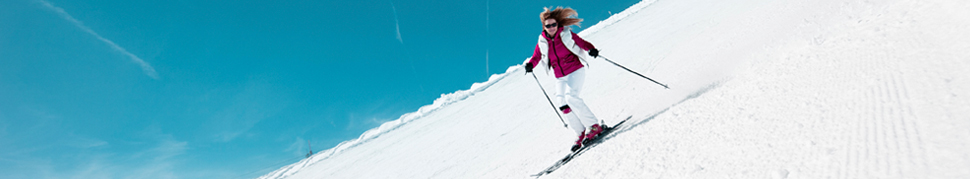
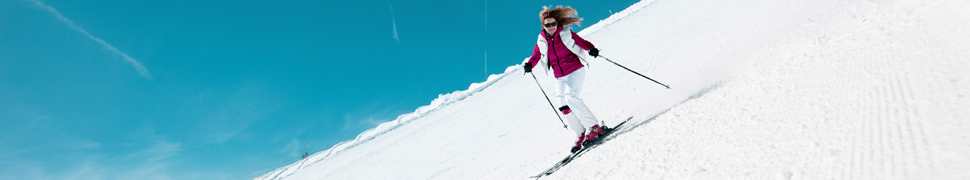
SuperSki: diversen

diff --git a/css/opmaak_superski.css b/css/opmaak_superski.css
@@ -95,7 +95,7 @@ form {
 #topfoto {
 	display: block;
 	width: 970px;
-	height: 179px;
+	height: 180px;
 }
 
 #logo {
@@ -896,11 +896,11 @@ form {
 }
 
 .zoekresultaat_aanbieding {
-	color: #003366;
+	color: #e6007e;
 }
 
 .zoekresultaat_type_aanbieding {
-	color: #003366;
+	color: #e6007e;
 }
 
 .zoekresultaat_type_prijs_aanbieding {

diff --git a/content/opmaak_superski.php b/content/opmaak_superski.php
@@ -362,16 +362,28 @@ echo "<li><a href=\"".$vars["path"]."algemenevoorwaarden.php\">Algemene voorwaar
 echo "</div>";
 echo "<div class=\"wrap\">";
 echo "<div class=\"divContentIND\">";
-echo "<br><b>Onze skigebieden</b><br><br>";
-echo "<li><a href=\"".$vars["path"]."\"".($rel_nofollow ? " rel=\"nofollow\"" : "").">Skigebied 1</a></li>";
+echo "<br><b>Onze bestemmingen</b><br><br>";
+echo "<li><a href=\"".$vars["path"]."land/Frankrijk/\"".($rel_nofollow ? " rel=\"nofollow\"" : "").">Chalets in Frankrijk</a></li>";
+echo "<li><a href=\"".$vars["path"]."land/Oostenrijk/\"".($rel_nofollow ? " rel=\"nofollow\"" : "").">Chalets in Oostenrijk</a></li>";
+echo "<li><a href=\"".$vars["path"]."land/Zwitserland/\"".($rel_nofollow ? " rel=\"nofollow\"" : "").">Chalets in Zwitserland</a></li>";
+echo "<li><a href=\"".$vars["path"]."land/Italie/\"".($rel_nofollow ? " rel=\"nofollow\"" : "").">Chalets in Itali&euml;</a></li>";
+echo "<li><a href=\"".$vars["path"]."land/Duitsland/\"".($rel_nofollow ? " rel=\"nofollow\"" : "").">Chalets in Duitsland</a></li>";
 echo "</div>";
 echo "<div class=\"divContentIND\">";
-echo "<BR><BR><br>";
-echo "<li><a href=\"".$vars["path"]."\"".($rel_nofollow ? " rel=\"nofollow\"" : "").">Skigebied 2</a></li>";
+echo "<br><b>Populaire skigebieden</b><br><br>";
+echo "<li><a href=\"".$vars["path"]."skigebied/Les_Trois_Vallees/\"".($rel_nofollow ? " rel=\"nofollow\"" : "").">Witersport in Les Trois Vall&eacute;es</a></li>";
+echo "<li><a href=\"".$vars["path"]."skigebied/Paradiski_-_Les_Arcs/\"".($rel_nofollow ? " rel=\"nofollow\"" : "").">Wintersport in Les Arcs / Paradiski</a></li>";
+echo "<li><a href=\"".$vars["path"]."skigebied/Zillertal/\"".($rel_nofollow ? " rel=\"nofollow\"" : "").">Wintersprt in Zillertal</a></li>";
+echo "<li><a href=\"".$vars["path"]."skigebied/Zell_am_See_Kaprun/\"".($rel_nofollow ? " rel=\"nofollow\"" : "").">Wintersprt in Zell am See / Kaprun</a></li>";
+echo "<li><a href=\"".$vars["path"]."skigebied/Les_Deux_Alpes/\"".($rel_nofollow ? " rel=\"nofollow\"" : "").">Wintersport in Les Deux Alpes</a></li>";
 echo "</div>";
 echo "<div class=\"divContentIND\">";
-echo "<BR><BR><br>";
-echo "<li><a href=\"".$vars["path"]."\"".($rel_nofollow ? " rel=\"nofollow\"" : "").">Skigebied 3</a></li>";
+echo "<br><b>Populaire skidorpen</b><br><br>";
+echo "<li><a href=\"".$vars["path"]."plaats/Konigsleiten/\"".($rel_nofollow ? " rel=\"nofollow\"" : "").">Wintersport in K&ouml;nigsleiten</li></a>";
+echo "<li><a href=\"".$vars["path"]."plaats/Zell_am_See/\"".($rel_nofollow ? " rel=\"nofollow\"" : "").">Wintersport in Zell am See</a></li>";
+echo "<li><a href=\"".$vars["path"]."plaats/Val_Thorens/\"".($rel_nofollow ? " rel=\"nofollow\"" : "").">Wintersport in Val Thorens</a></li>";
+echo "<li><a href=\"".$vars["path"]."plaats/Chatel/\"".($rel_nofollow ? " rel=\"nofollow\"" : "").">Wintersport in Ch&acirc;tel</a></li>";
+echo "<li><a href=\"".$vars["path"]."plaats/Les_Menuires/\"".($rel_nofollow ? " rel=\"nofollow\"" : "").">Wintersport in Les Menuires</a></li>";
 echo "</div>";
 echo "</div>";
 echo "</div>";
